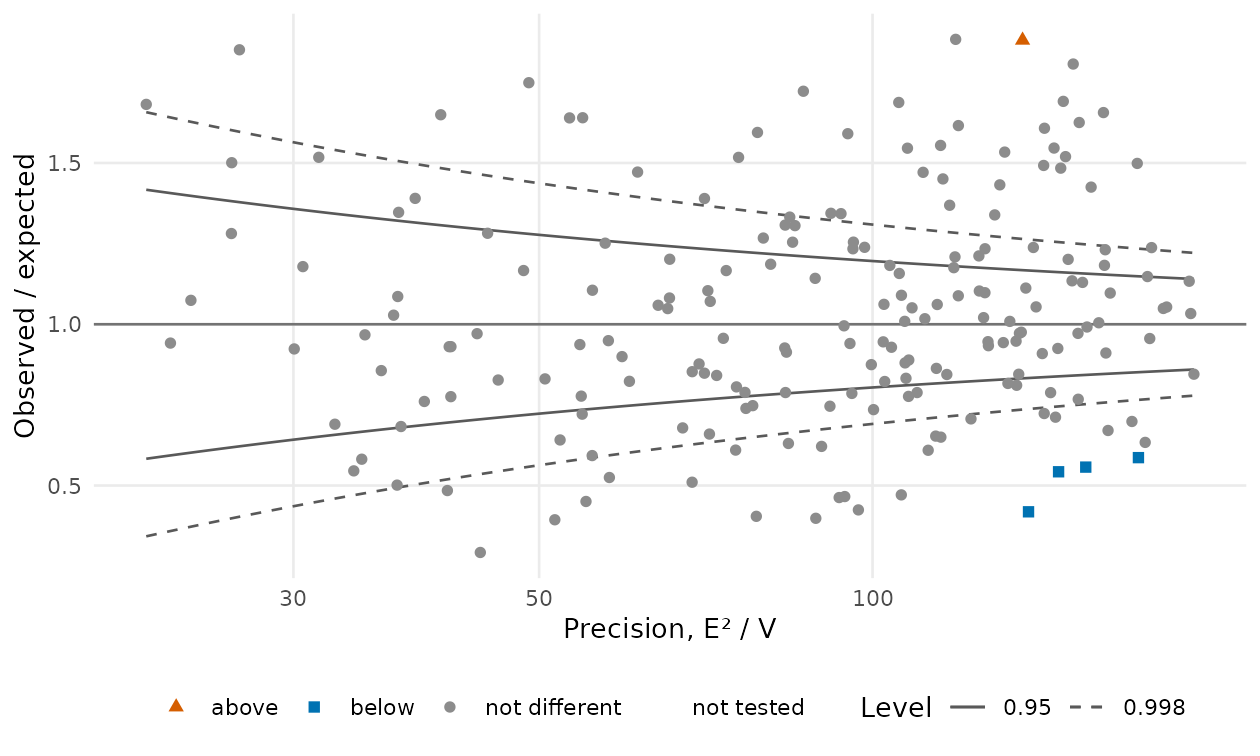
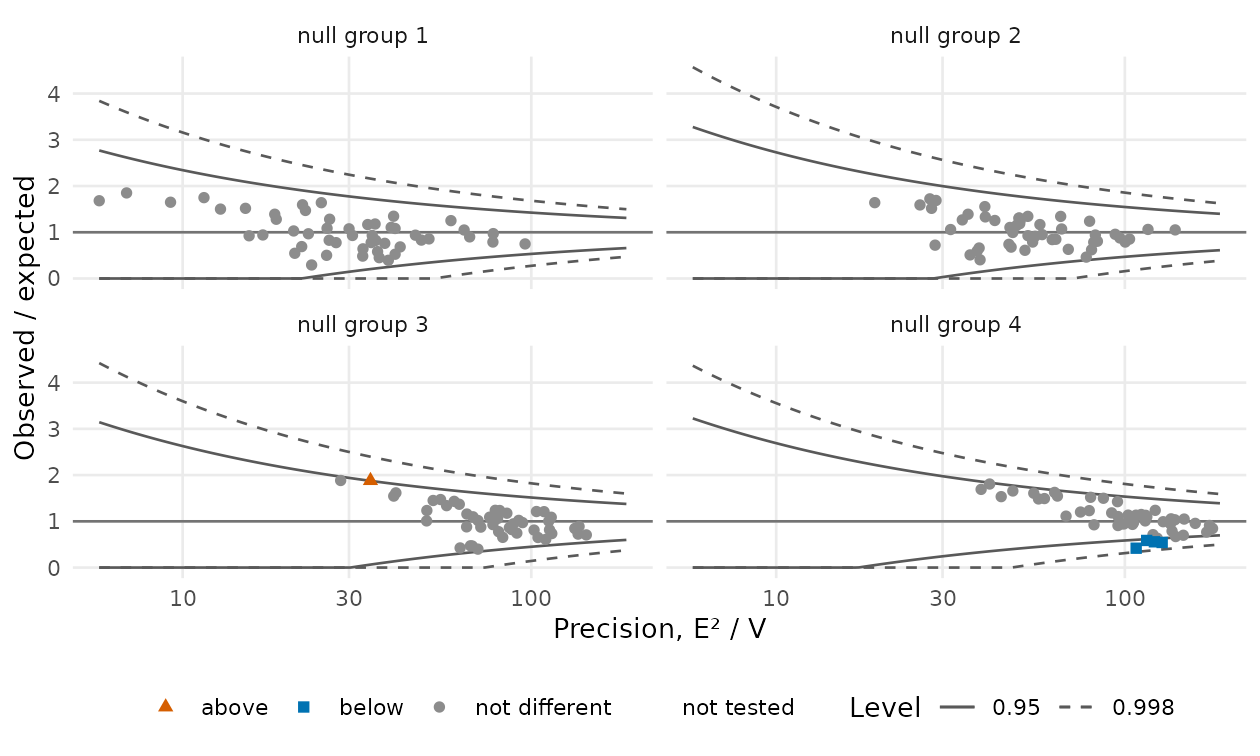
Funnel plots draw the limits of the test they show: score tests on the precision E^2/V with their own variance and null (one set of limits per empirical-null group); a standardized measure's funnel with a test draws that test's funnel; test() results of the score and exact statistics carry observed,

diff --git a/NEWS.md b/NEWS.md
@@ -1,3 +1,18 @@
+# pprof 2.0.3
+
+* The funnel plot of a score test (`plot(test, type = "funnel")`) is drawn:
+  observed over expected events against the precision $E^2 / V$, with $V$
+  the variance the statistic was referred to (naive, robust or stabilized),
+  and the limits $1 + (m \pm c\, s) / \sqrt{E^2 / V}$ of its null (one set
+  per group after `calibrate()`), so that a provider lies outside the limits
+  exactly when it is flagged. `test()` results of the score and exact
+  statistics carry `observed`, `expected` and `variance` for it.
+* `plot(measure, type = "funnel", test = )` draws that test's funnel instead
+  of normal limits with the test's colours, which could show many providers
+  outside the limits and few flagged; a Wald-type test is refused there.
+* One-sided Wald funnels draw the limit on the flagged side.
+* README funnel figure redrawn with the test's own limits.
+
 # pprof 2.0.2
 
 * README and site home page shortened to the essentials, with the plots of the
